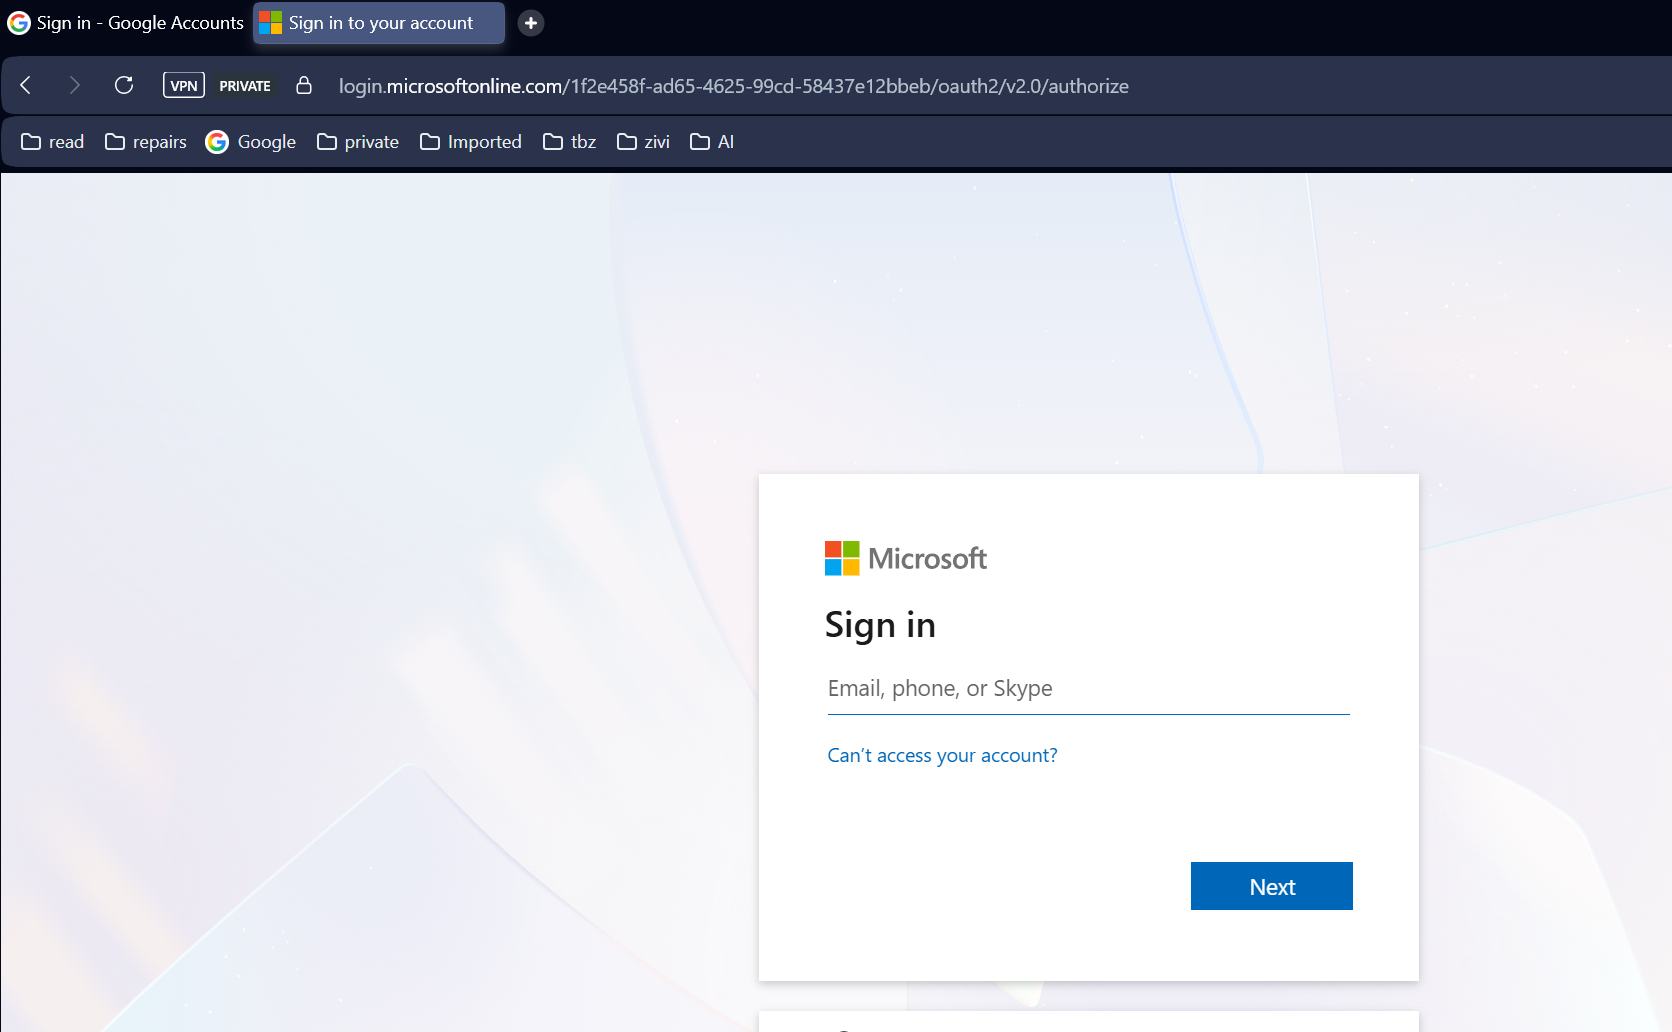
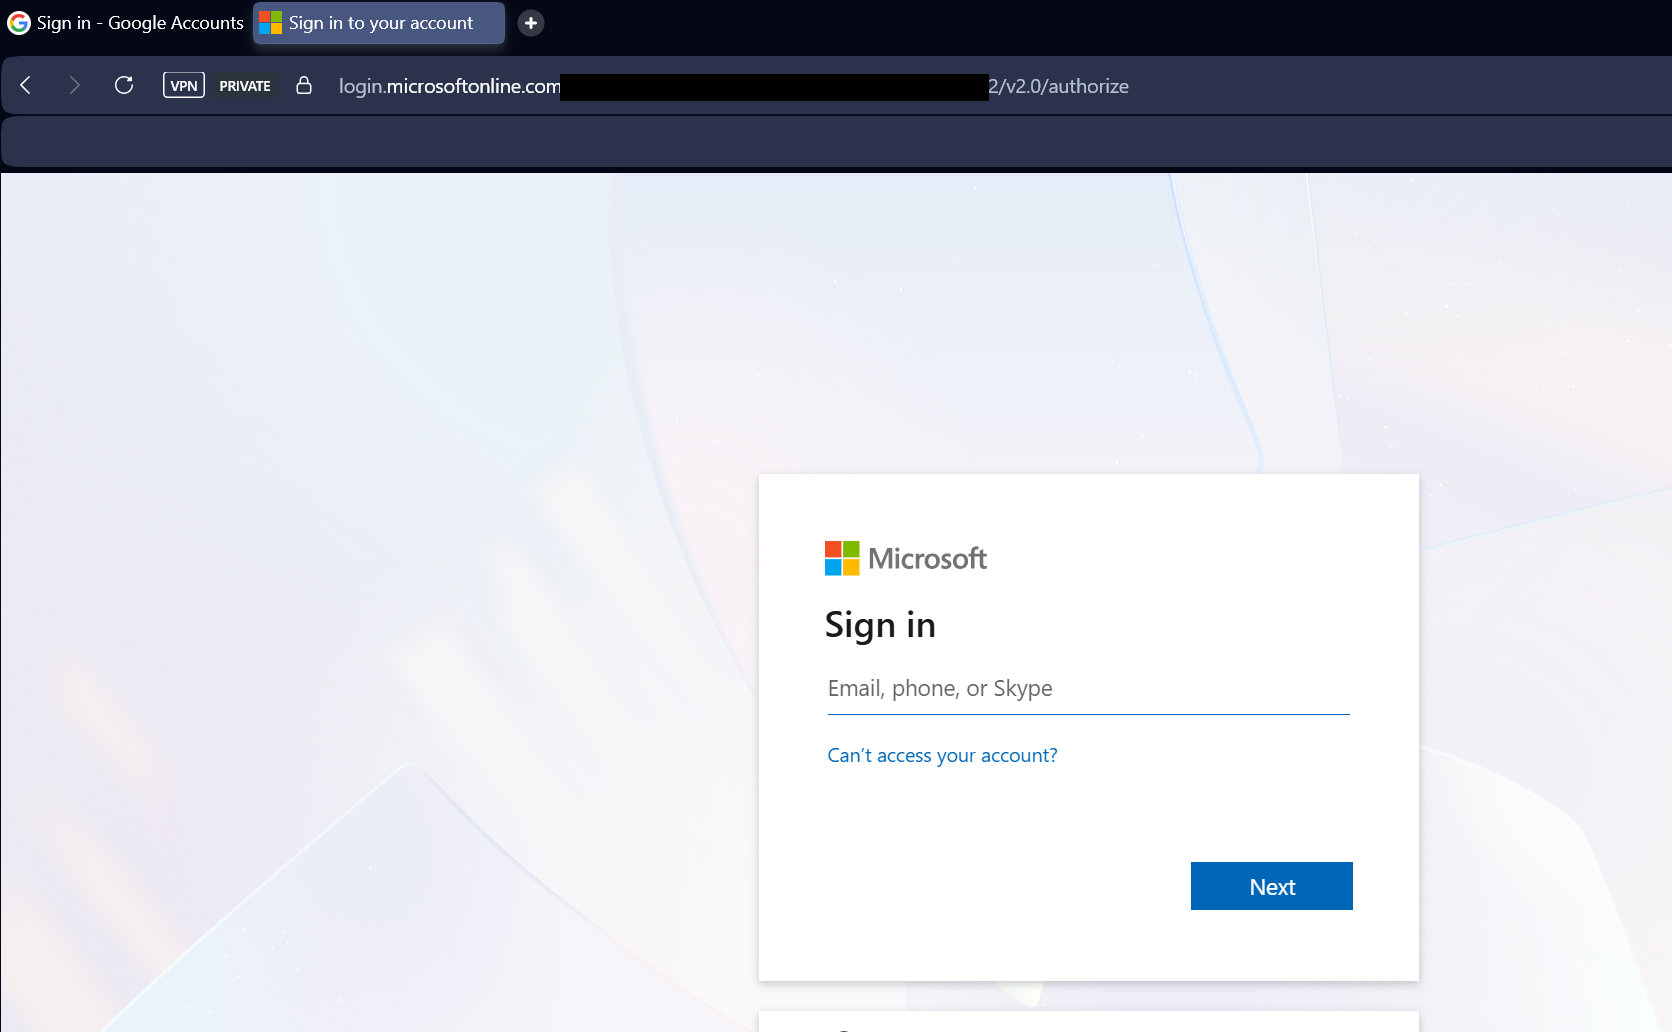
Hinweis Jira-Links, Screenshots geschwärzt
- Hinweis: Jira-Links waren für die Lehrpersonen, nicht öffentlich
- Tenant-, Client- und Object-ID, Browser-Lesezeichen und weitere
  Jira-Spaces in Screenshots geschwärzt

Claude-Session: https://claude.ai/code/session_01BCKh7LU7b8i5P7bd4WKFJJ

Changed region(s): [[0.311, 0.062, 0.5909, 0.155], [0.0311, 0.124, 0.311, 0.155]]

diff --git a/docs/index.md b/docs/index.md
@@ -10,6 +10,8 @@
 
 Diese Seite ist die Dokumentation meiner 3. Semesterarbeit.
 
+> **Hinweis zu den Jira-Links:** Die Links auf Jira-Tickets (rumidesigns.atlassian.net) waren für die betreuenden Lehrpersonen gedacht und sind öffentlich nicht zugänglich.
+
 ## Worum geht es?
 
 Klassische asymmetrische Kryptografie wie RSA und ECC wird durch ausreichend grosse Quantencomputer brechbar. Seit August 2024 gibt es mit FIPS 203, 204 und 205 die ersten NIST-Standards für Post-Quanten-Kryptografie (PQC). In dieser Arbeit habe ich einen Authentifizierungs-Microservice in Python (FastAPI) gebaut, der diese Standards praktisch einsetzt, demonstriert über eine minimale React-Native-App.
